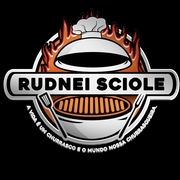
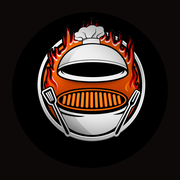
Usa as fotos reais do Rudnei na abertura, no Sobre, no carrossel e na galeria, e o símbolo da churrasqueira como selo e ícone.

diff --git a/content/gallery.ts b/content/gallery.ts
@@ -1,58 +1,63 @@
 import type { PublicPhoto } from "@/lib/storage/types";
 
+// Fotos reais que acompanham o site. Entram quando o admin ainda não tem fotos
+// na categoria correspondente. As fotos enviadas pelo admin sempre têm prioridade.
+const real = (photo: Omit<PublicPhoto, "caption" | "placeholder">): PublicPhoto => ({
+  ...photo,
+  caption: "",
+  placeholder: false,
+});
+
+// Carrossel. A primeira vai na abertura e a segunda na seção Sobre.
 export const placeholderPhotos: PublicPhoto[] = [
-  {
-    id: "placeholder-brasa",
-    url: "/placeholders/brasa.jpg",
-    alt: "Imagem ilustrativa de brasa e grelha. Ainda não é uma foto do Rudnei Sciole.",
-    width: 1600,
-    height: 1000,
-    caption: "",
-    placeholder: true,
-  },
-  {
-    id: "placeholder-corte",
-    url: "/placeholders/corte.jpg",
-    alt: "Imagem ilustrativa de carne na grelha. Ainda não é uma foto do evento.",
-    width: 1600,
-    height: 1000,
-    caption: "",
-    placeholder: true,
-  },
-  {
-    id: "placeholder-mesa",
-    url: "/placeholders/mesa.jpg",
-    alt: "Imagem ilustrativa de mesa de churrasco. Substitua pela foto real.",
-    width: 1600,
-    height: 1000,
-    caption: "",
-    placeholder: true,
-  },
-  {
-    id: "placeholder-pao",
-    url: "/placeholders/pao-de-alho.jpg",
-    alt: "Imagem ilustrativa de pão de alho. Ainda não é uma foto servida por nós.",
-    width: 1600,
-    height: 1000,
-    caption: "",
-    placeholder: true,
-  },
-  {
-    id: "placeholder-molhos",
-    url: "/placeholders/molhos.jpg",
-    alt: "Imagem ilustrativa de acompanhamentos. Ainda não é uma foto real.",
-    width: 1600,
-    height: 1000,
-    caption: "",
-    placeholder: true,
-  },
-  {
-    id: "placeholder-noite",
-    url: "/placeholders/noite.jpg",
-    alt: "Imagem ilustrativa de um evento à noite. Substitua quando as fotos chegarem.",
-    width: 1600,
-    height: 1000,
-    caption: "",
-    placeholder: true,
-  },
+  real({
+    id: "seed-rudnei-fumaca",
+    url: "/photos/rudnei-fumaca-1920.webp",
+    alt: "Rudnei Sciole cuidando da carne na churrasqueira, com a fumaça subindo, em um evento ao ar livre.",
+    width: 1920,
+    height: 1844,
+  }),
+  real({
+    id: "seed-rudnei-legumes",
+    url: "/photos/rudnei-legumes-1920.webp",
+    alt: "Rudnei Sciole cortando legumes ao lado da grelha com pimentões, abobrinha e cebola roxa sobre a brasa.",
+    width: 1920,
+    height: 1903,
+  }),
+  real({
+    id: "seed-churrasqueira-fumaca",
+    url: "/gallery/rudnei-na-churrasqueira-fumaca.webp",
+    alt: "Rudnei Sciole na churrasqueira durante uma festa, entre a fumaça da brasa.",
+    width: 640,
+    height: 640,
+  }),
+  real({
+    id: "seed-chimichurri",
+    url: "/gallery/carne-chimichurri-travessa.webp",
+    alt: "Travessa de carne fatiada com chimichurri, servida em uma festa.",
+    width: 361,
+    height: 640,
+  }),
+];
+
+export const seedFestas: PublicPhoto[] = [
+  placeholderPhotos[2],
+  real({
+    id: "seed-hamburguer",
+    url: "/gallery/hamburguer-artesanal-luvas-pretas.webp",
+    alt: "Hambúrguer artesanal montado por mãos com luvas pretas, em um evento.",
+    width: 640,
+    height: 640,
+  }),
+  placeholderPhotos[3],
+];
+
+export const seedClientes: PublicPhoto[] = [
+  real({
+    id: "seed-cliente-terraco",
+    url: "/gallery/rudnei-com-cliente-terraco.webp",
+    alt: "Rudnei Sciole ao lado de um cliente, no terraço de uma festa.",
+    width: 640,
+    height: 640,
+  }),
 ];

diff --git a/lib/gallery.ts b/lib/gallery.ts
@@ -1,6 +1,6 @@
 import { connection } from "next/server";
 import { cache } from "react";
-import { placeholderPhotos } from "@/content/gallery";
+import { placeholderPhotos, seedClientes, seedFestas } from "@/content/gallery";
 import { defaultSections, type SectionSettings } from "@/lib/sections";
 import { getPhotoStore, storageKind } from "@/lib/storage";
 import { defaultTestimonials, publicTestimonials, type PublicTestimonial } from "@/lib/testimonials";
@@ -54,13 +54,13 @@ export const loadGallery = cache(async function loadGallery(): Promise<GalleryVi
   if (storage === "unconfigured") {
     return {
       storage,
-      usingPlaceholders: true,
+      usingPlaceholders: placeholderPhotos.some((photo) => photo.placeholder),
       error: false,
       hero: fallbackHero,
       story: fallbackStory,
       photos: shufflePhotos(placeholderPhotos),
-      festas: [],
-      clientes: [],
+      festas: seedFestas,
+      clientes: seedClientes,
       choripan: [],
       shuffle: true,
       sections: defaultSections(),
@@ -71,14 +71,16 @@ export const loadGallery = cache(async function loadGallery(): Promise<GalleryVi
   try {
     const manifest = await getPhotoStore().list();
     const carousel = ofCategory(manifest.photos, "carrossel");
-    const festas = ofCategory(manifest.photos, "festas");
-    const clientes = ofCategory(manifest.photos, "clientes");
+    const storedFestas = ofCategory(manifest.photos, "festas");
+    const festas = storedFestas.length > 0 ? storedFestas : seedFestas;
+    const storedClientes = ofCategory(manifest.photos, "clientes");
+    const clientes = storedClientes.length > 0 ? storedClientes : seedClientes;
     const choripan = ofCategory(manifest.photos, "choripan");
 
     if (carousel.length === 0) {
       return {
         storage,
-        usingPlaceholders: true,
+        usingPlaceholders: placeholderPhotos.some((photo) => photo.placeholder),
         error: false,
         hero: fallbackHero,
         story: fallbackStory,

diff --git a/components/landing/photo-frame.tsx b/components/landing/photo-frame.tsx
@@ -2,6 +2,10 @@ import Image from "next/image";
 import { cn } from "@/lib/utils";
 import type { PublicPhoto } from "@/lib/storage/types";
 
+// Fotos estáticas do site (public/photos e public/gallery) já vêm em WebP otimizado
+// e ficam fora dos localPatterns do next.config.ts, então são servidas direto.
+const isStaticSitePhoto = (url: string) => url.startsWith("/photos/") || url.startsWith("/gallery/");
+
 export function PhotoFrame({
   photo,
   priority = false,
@@ -21,6 +25,7 @@ export function PhotoFrame({
         fill
         priority={priority}
         sizes={sizes}
+        unoptimized={isStaticSitePhoto(photo.url)}
         className="object-cover"
       />
       <div className="pointer-events-none absolute inset-0 bg-gradient-to-t from-ink/70 via-transparent to-ink/10" />

diff --git a/components/landing/album.tsx b/components/landing/album.tsx
@@ -124,6 +124,7 @@ export function Album({
                           alt={photo.alt}
                           fill
                           sizes="(min-width: 1024px) 22vw, (min-width: 640px) 30vw, 45vw"
+                          unoptimized={photo.url.startsWith("/gallery/") || photo.url.startsWith("/photos/")}
                           className="album-zoom object-cover transition duration-500 group-hover:scale-[1.04]"
                         />
                       </span>
@@ -255,6 +256,7 @@ function Lightbox({
             alt={photo.alt}
             fill
             sizes="(min-width: 1024px) 960px, 100vw"
+            unoptimized={photo.url.startsWith("/gallery/") || photo.url.startsWith("/photos/")}
             className="object-contain"
           />
         </motion.div>

diff --git a/app/layout.tsx b/app/layout.tsx
@@ -53,8 +53,9 @@ export const metadata: Metadata = {
   icons: {
     icon: [
       { url: "/brand/favicon.ico", sizes: "any" },
-      { url: "/brand/logo-64.png", type: "image/png", sizes: "64x64" },
-      { url: "/brand/logo-192.png", type: "image/png", sizes: "192x192" },
+      { url: "/brand/simbolo-64.png", type: "image/png", sizes: "64x64" },
+      { url: "/brand/simbolo-192.png", type: "image/png", sizes: "192x192" },
+      { url: "/brand/simbolo-512.png", type: "image/png", sizes: "512x512" },
     ],
     apple: [{ url: "/brand/apple-touch-icon.png", sizes: "180x180" }],
   },

diff --git a/components/landing/logo.tsx b/components/landing/logo.tsx
@@ -4,11 +4,12 @@ import { slogans } from "@/content/site";
 export function Seal({ className }: { className?: string }) {
   return (
     <Image
-      src="/brand/logo-192.png"
+      src="/brand/simbolo-192.png"
       alt="Logo Rudnei Sciole Churrasqueiro"
       width={192}
       height={192}
       priority
+      unoptimized
       className={`rounded-full ${className ?? ""}`}
     />
   );
